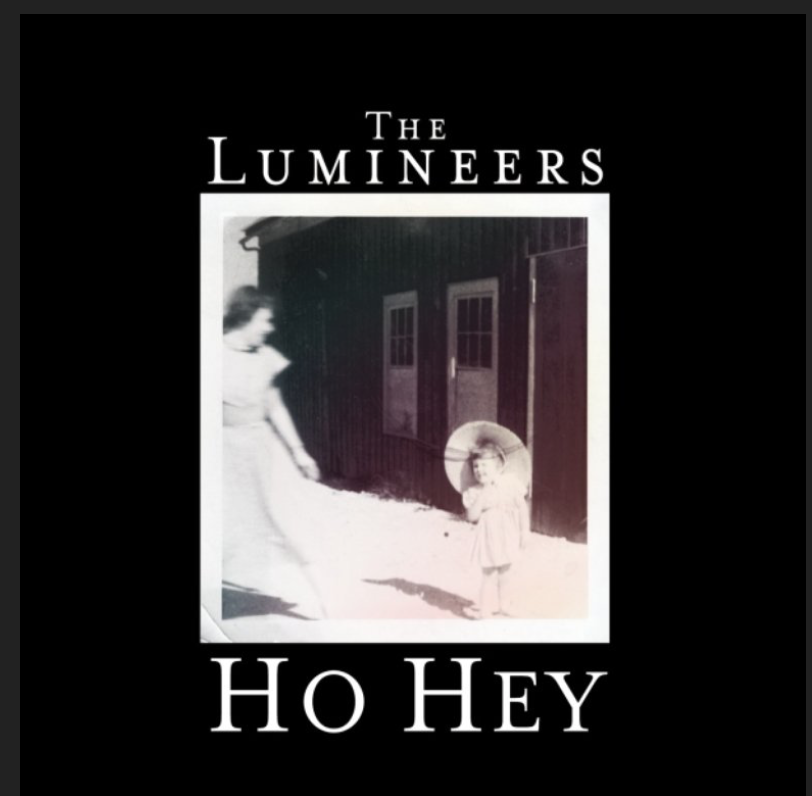
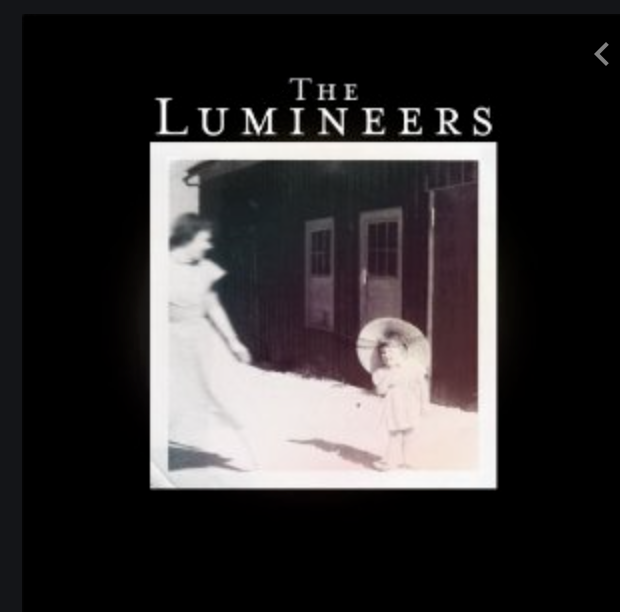
up

Changed region(s): [[0.2145, 0.1242, 0.8274, 0.9314], [0.95, 0.031, 1.0, 1.0]]

diff --git a/assignment-07/index.html b/assignment-07/index.html
@@ -24,15 +24,13 @@
     font-size: small;
     font-family: Arial;
   }
-https://www.last.fm/music/The+Lumineers/Ho+Hey/+images/9d07b9a1c242469d995ae629977a6103
-
     </style>
   </head>
 
   <body>
     <div id="art" class="container lyrics">
       <h1>Art</h1>
-      <img src="./images/screenshot.png" alt="Lumineers Album Cover" title="Ho Hey" width="770" height="770"/>
+      <img src="./images/screenshot.png" alt="Lumineers Album Cover" title="Ho Hey" width="300" height="300"/>
     </div>
 
     <div id="audio" class="container lyrics">
